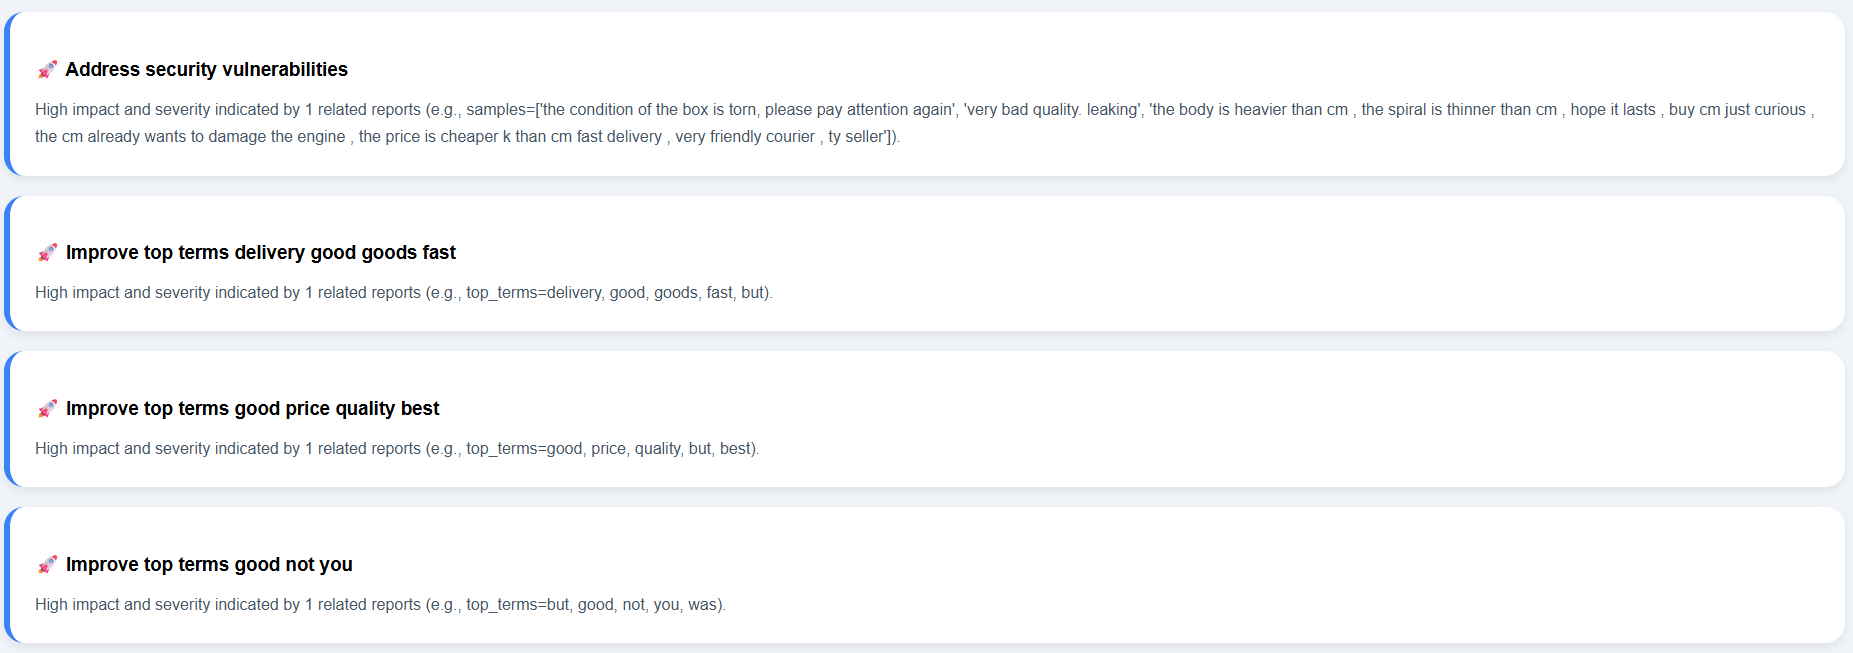
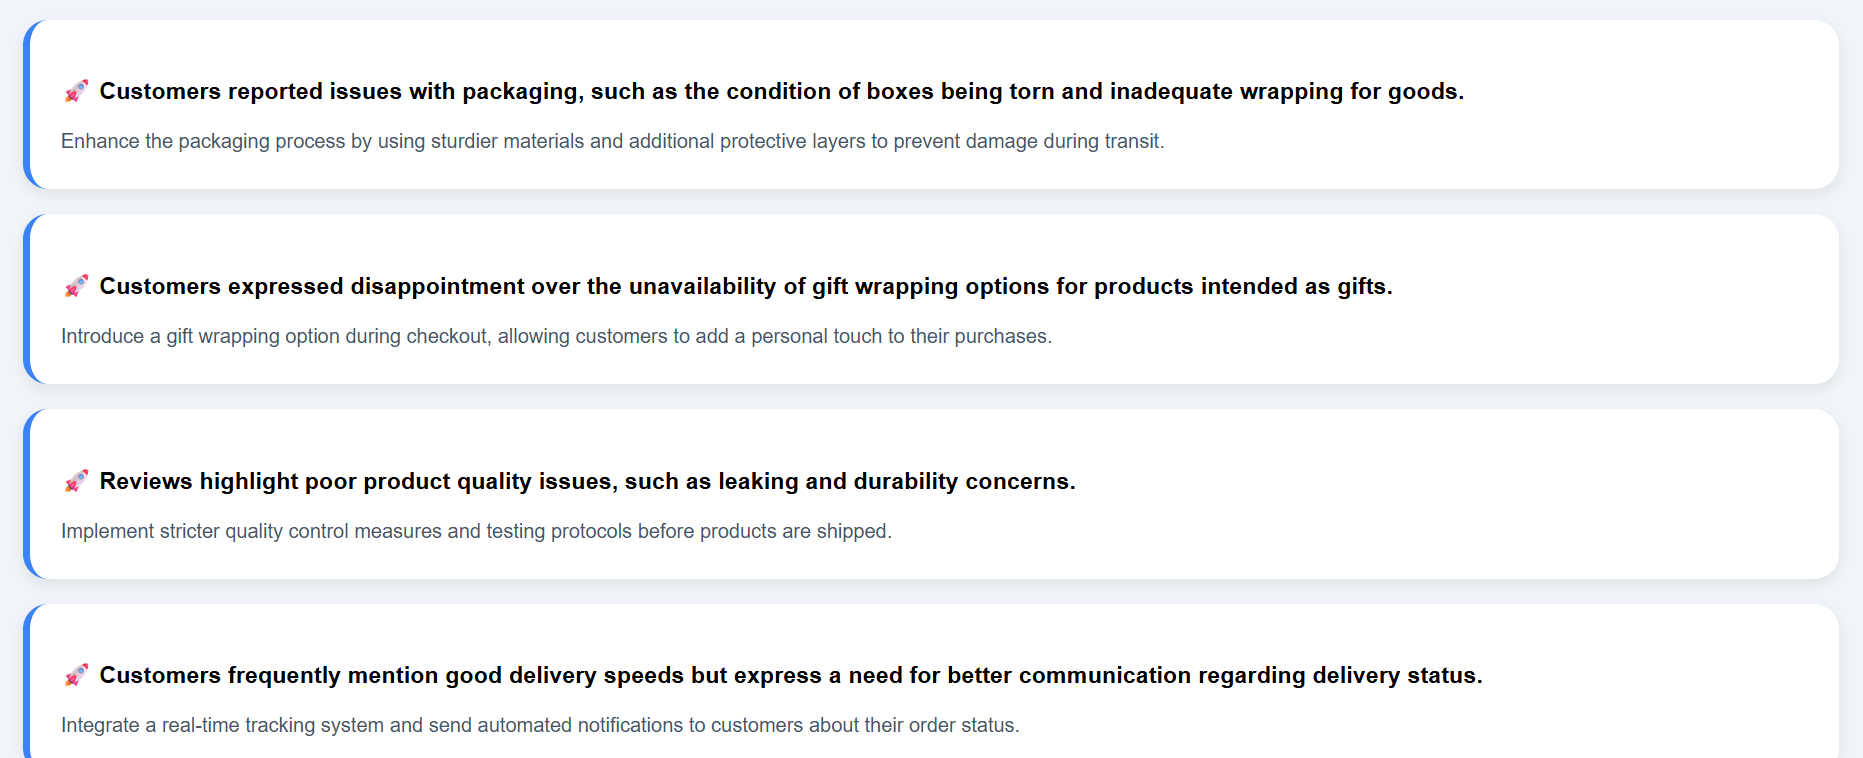
Updated the suggestion pipeline with full LLM workflow

Changed region(s): [[0.0, 0.0306, 0.9843, 0.5207], [0.0, 0.7963, 0.9843, 1.0], [0.0, 0.5513, 0.9843, 0.7657]]

diff --git a/frontend_react/src/components/RecommendationCard.jsx b/frontend_react/src/components/RecommendationCard.jsx
@@ -7,12 +7,12 @@ export default function RecommendationCard({
         <div className="recommendation-card">
 
             <h3>
-                🚀 {rec.action}
+                🚀 {rec.customer_problem}
             </h3>
 
             <div className="recommendation-info">
 
-                {rec.rationale}
+                {rec.proposed_solution}
 
             </div>
 

diff --git a/backend/src/agent.py b/backend/src/agent.py
@@ -216,70 +216,113 @@ def _offline_improvement_proposals(cluster_summaries: str) -> List[Dict[str, Any
 # ---------------------------
 # Main entry
 # ---------------------------
+import json
+from dotenv import load_dotenv
+from openai import OpenAI
 
+# --------------------------------------------------
+# Load Environment Variables
+# --------------------------------------------------
+
+load_dotenv()
+
+OPENAI_API_KEY = os.getenv("OPENAI_API_KEY")
+OPENAI_MODEL = os.getenv("OPENAI_MODEL", "gpt-4.1-mini")
+
+print("OPENAI_API_KEY:", os.getenv("OPENAI_API_KEY"))
+print("OPENAI_MODEL:", os.getenv("OPENAI_MODEL"))
+
+client = OpenAI(api_key=OPENAI_API_KEY)
 def propose_improvements(cluster_summaries: str):
-    """Call an LLM to propose improvements.
 
-    If Azure/OpenAI is configured, it uses the model.
-    Otherwise, it falls back to a local heuristic generator that analyzes the text
-    and produces the top 5 actionable improvements with rationales and priorities.
+    system_prompt = """
+    You are a Principal Product Manager.
+
+    Your job is to analyze customer review clusters
+    and identify the most valuable product improvements.
+
+    Consider:
+
+    - Customer pain points
+    - Complaint frequency
+    - Business impact
+    - User experience impact
+    - Product reliability
+    - Ease of implementation
+
+    Prioritize recommendations according to impact.
+
+    Return ONLY valid JSON.
     """
-    azure_key = os.environ.get("AZURE_OPENAI_KEY")
-    azure_base = os.environ.get("AZURE_OPENAI_BASE")
-    azure_deployment = os.environ.get("AZURE_OPENAI_DEPLOYMENT")
-    azure_api_version = os.environ.get("AZURE_OPENAI_API_VERSION", "2023-05-15")
 
-    prompt = PROMPT_TEMPLATE.format(cluster_summaries=cluster_summaries)
-    model_name = os.environ.get("AZURE_OPENAI_MODEL", "gpt-5-mini")
+    user_prompt = f"""
+    Analyze the following customer review clusters.
 
-    # Try Azure first
-    if azure_key and azure_base and azure_deployment:
-        try:
-            deployment = _configure_openai_for_azure(azure_key, azure_base, azure_deployment, azure_api_version)
-            messages = [
-                {"role": "system", "content": "You are a helpful product improvement assistant."},
-                {"role": "user", "content": prompt},
+    Customer Review Clusters:
+
+    {cluster_summaries}
+
+    Generate the TOP 5 product improvement recommendations.
+
+    Return JSON in the following format:
+
+    [
+      {{
+        "title": "",
+        "customer_problem": "",
+        "proposed_solution": "",
+        "expected_impact": "",
+        "priority_score": 1,
+        "implementation_complexity": "",
+        "category": ""
+      }}
+    ]
+
+    Categories:
+
+    - UX
+    - Feature
+    - Performance
+    - Reliability
+    - Support
+
+    Rules:
+
+    1. Return ONLY JSON.
+    2. No markdown.
+    3. No explanation outside JSON.
+    """
+
+    try:
+
+        response = client.responses.create(
+            model=OPENAI_MODEL,
+            input=[
+                {
+                    "role": "system",
+                    "content": system_prompt
+                },
+                {
+                    "role": "user",
+                    "content": user_prompt
+                }
             ]
-            resp = openai.ChatCompletion.create(
-                engine=deployment,
-                messages=messages,
-                temperature=0.2,
-                max_tokens=600,
-                request_timeout=30,
-            )
-            text = resp.choices[0].message.content
-            try:
-                return _try_parse_json(text)
-            except Exception:
-                # If parsing fails, still provide *automatic* suggestions offline
-                return _offline_improvement_proposals(cluster_summaries)
-        except Exception:
-            # If the API call fails for any reason, use offline heuristic suggestions
-            return _offline_improvement_proposals(cluster_summaries)
+        )
 
-    # Try non-Azure OpenAI
-    openai_key = os.environ.get("OPENAI_API_KEY")
-    if openai_key:
-        try:
-            openai.api_key = openai_key
-            messages = [
-                {"role": "system", "content": "You are a helpful product improvement assistant."},
-                {"role": "user", "content": prompt},
-            ]
-            resp = openai.ChatCompletion.create(
-                model=model_name,
-                messages=messages,
-                temperature=0.2,
-                max_tokens=600,
-                request_timeout=30,
-            )
-            text = resp.choices[0].message.content
-            try:
-                return _try_parse_json(text)
-            except Exception:
-                return _offline_improvement_proposals(cluster_summaries)
-        except Exception:
-            return _offline_improvement_proposals(cluster_summaries)
+        result = response.output_text
 
-    # No credentials present → offline automatic suggestions
-    return _offline_improvement_proposals(cluster_summaries)
+        return json.loads(result)
+
+    except Exception as e:
+
+        print(f"OpenAI Error: {e}")
+
+        return [{
+            "title": "OpenAI API Failure",
+            "customer_problem": str(e),
+            "proposed_solution": "Check API configuration",
+            "expected_impact": "Restore AI recommendations",
+            "priority_score": 10,
+            "implementation_complexity": "Low",
+            "category": "Support"
+        }]

diff --git a/backend/main.py b/backend/main.py
@@ -317,9 +317,7 @@ def cluster_summarizer(
 # IMPROVEMENT PLANS
 # ==========================================
 
-@app.post(
-    "/generate_improvement_plans"
-)
+@app.post("/generate_improvement_plans")
 def generate_improvement_plans(
     summarization:
         Dict[int, Dict[str, Any]]
@@ -354,6 +352,7 @@ def generate_improvement_plans(
         cluster_summaries_text
     )
 
+    print("suggestions: ", suggestions)
     return {
 
         "summarization":
